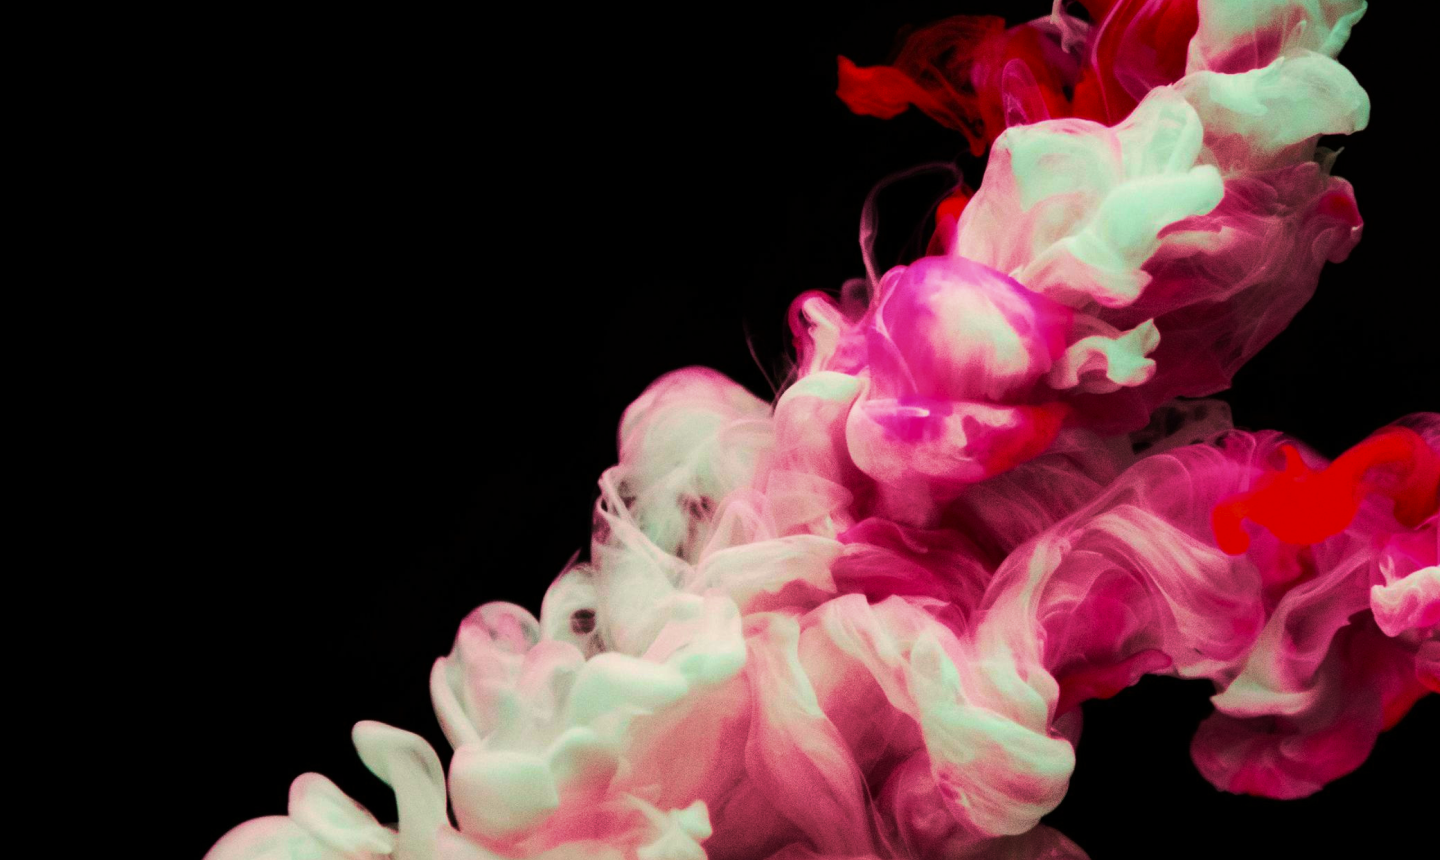
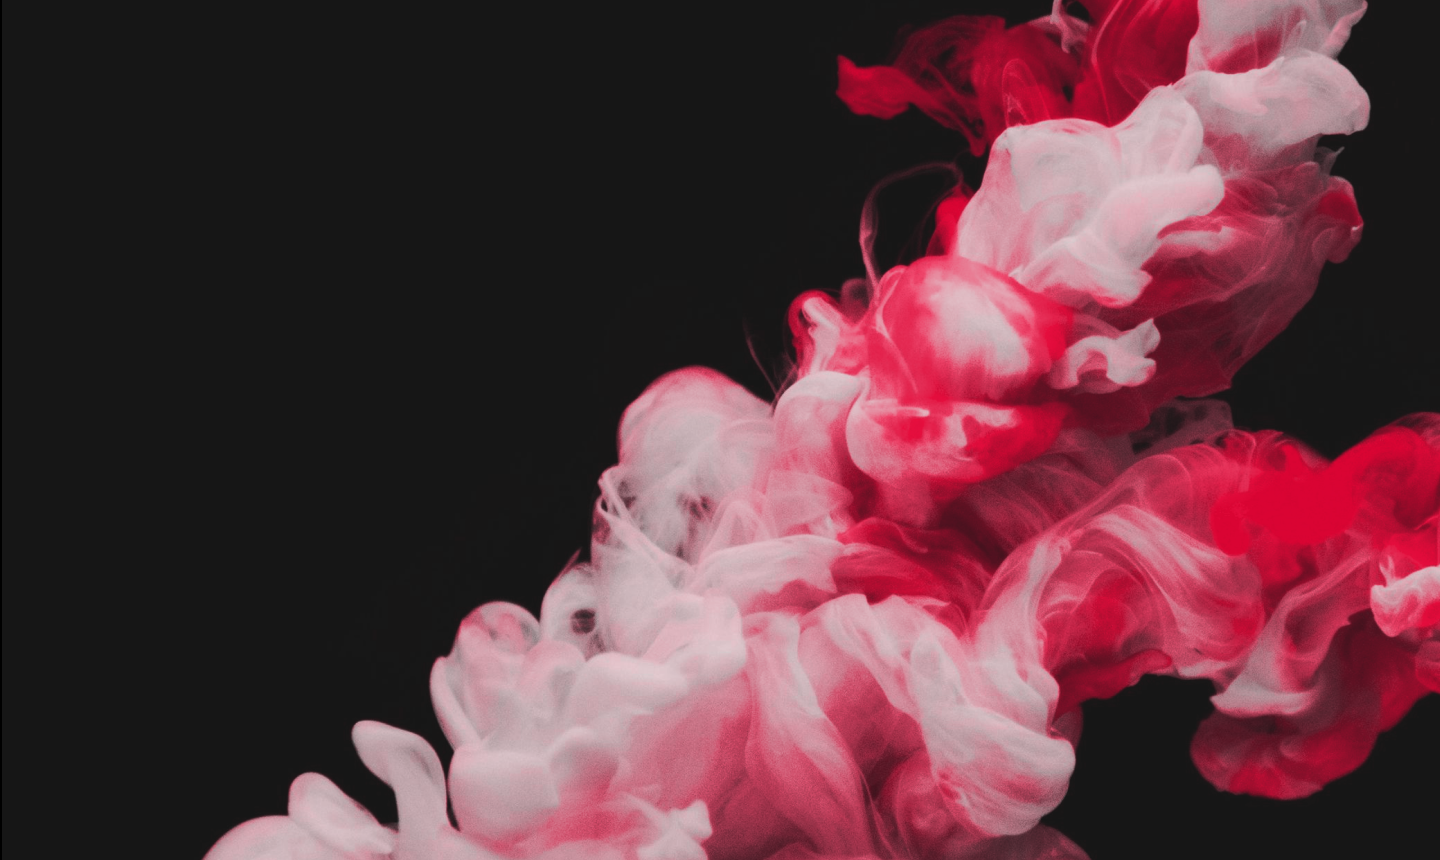
header to katalog

diff --git a/src/components/HomePages.vue b/src/components/HomePages.vue
@@ -1,23 +1,5 @@
 <template>
-  <header class="header_main">
-    <div class="container_header">
-      <a href="/" class="header_logo">
-        <img src="@/assets/img/header_img.svg" alt="Header Image"
-      /></a>
-      <div class="nav_text_block">
-        <a href="/" class="nav_text">главная</a>
-        <a href="/" class="nav_text">о нас</a>
-        <a href="/" class="nav_text">доставка</a>
-        <a href="/" class="nav_text">новости</a>
-      </div>
-      <div class="line_btn">
-        <button class="catalog_btn">
-          каталог
-          <div class="gradient-line"></div>
-        </button>
-      </div>
-    </div>
-  </header>
+<HeaderBlock/>
   <div class="section_full_block">
     <section class="section_full_slider">
       <div class="container_slider" ref="slider">
@@ -191,7 +173,9 @@
           <a class="footer_links_text color_white" href="/">отзывы</a>
           <a class="footer_links_text color_white" href="/">контакты</a>
         </div>
-        <a class="footer_links_text color_white footer_links_text_position2" href="tel:+89999999999"
+        <a
+          class="footer_links_text color_white footer_links_text_position2"
+          href="tel:+89999999999"
           >8 999 999 99 99</a
         >
         <a
@@ -199,10 +183,10 @@
           href="mailto:7stоbacсo@gmail.com"
           >7stоbacсo@gmail.com</a
         >
-        <a class="footer_links_opacity_text color_white " href="/"
+        <a class="footer_links_opacity_text color_white" href="/"
           >политика конфиденциальности</a
         >
-        <a class=" color_white footer_links_opacity_text_position" href="/"
+        <a class="color_white footer_links_opacity_text_position" href="/"
           >© 2024 7s. Все права защищены.</a
         >
         <button class="footer_btn color_grey-black">связаться с нами</button>
@@ -212,9 +196,11 @@
 </template>
 
 <script>
+import HeaderBlock from "./stabl/HeaderBlock.vue";
 import SloderReviews from "@/components/UI/SloderReviews.vue";
 export default {
   components: {
+    HeaderBlock,
     SloderReviews,
   },
   data() {
@@ -249,7 +235,7 @@ export default {
         }
         slider.style.transform = `translateX(${this.sliderPosition * 100}vw)`;
         count++;
-      }, 1000);
+      }, 15000);
     },
   },
 };

diff --git a/src/components/stabl/HeaderBlock.vue b/src/components/stabl/HeaderBlock.vue
@@ -1,0 +1,21 @@
+<template>
+  <header class="header_main">
+    <div class="container_header">
+      <a href="/" class="header_logo">
+        <img src="@/assets/img/header_img.svg" alt="Header Image"
+      /></a>
+      <div class="nav_text_block">
+        <a href="/" class="nav_text">главная</a>
+        <a href="/" class="nav_text">о нас</a>
+        <a href="/" class="nav_text">доставка</a>
+        <a href="/" class="nav_text">новости</a>
+      </div>
+      <div class="line_btn">
+        <button class="catalog_btn">
+          каталог
+          <div class="gradient-line"></div>
+        </button>
+      </div>
+    </div>
+  </header>
+</template>

diff --git a/src/assets/css/init.css b/src/assets/css/init.css
@@ -691,6 +691,7 @@ width: 29.06rem;
   font-weight: 700;
   line-height: 1.19rem;
   margin-bottom: 5.06rem;
+  text-transform: uppercase;
 }
 .footer_links_text:hover {
   color: rgb(60, 59, 75);
@@ -699,6 +700,9 @@ width: 29.06rem;
   position: absolute;
   left: 10.56rem;
   bottom: 3.75rem;
+}
+.footer_links_opacity_text_position:hover{
+  color: rgb(60, 59, 75);
 }
 .footer_links_text_position2 {
   position: absolute;

diff --git a/src/components/KatalogPages.vue b/src/components/KatalogPages.vue
@@ -1,3 +1,13 @@
 <template>
-    <div></div>
+  <HeaderBlock />
+  <div></div>
 </template>
+
+<script>
+import HeaderBlock from "./stabl/HeaderBlock.vue";
+export default {
+  components: {
+    HeaderBlock,
+  },
+};
+</script>
